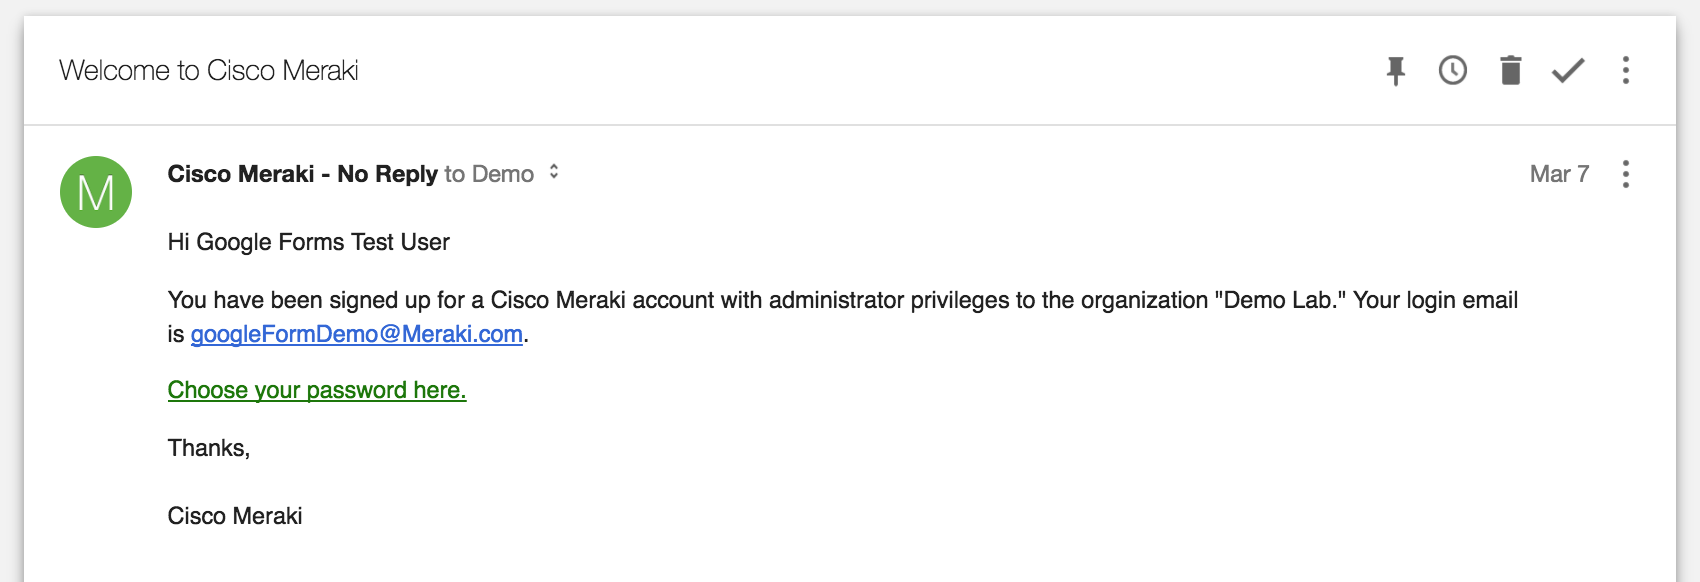
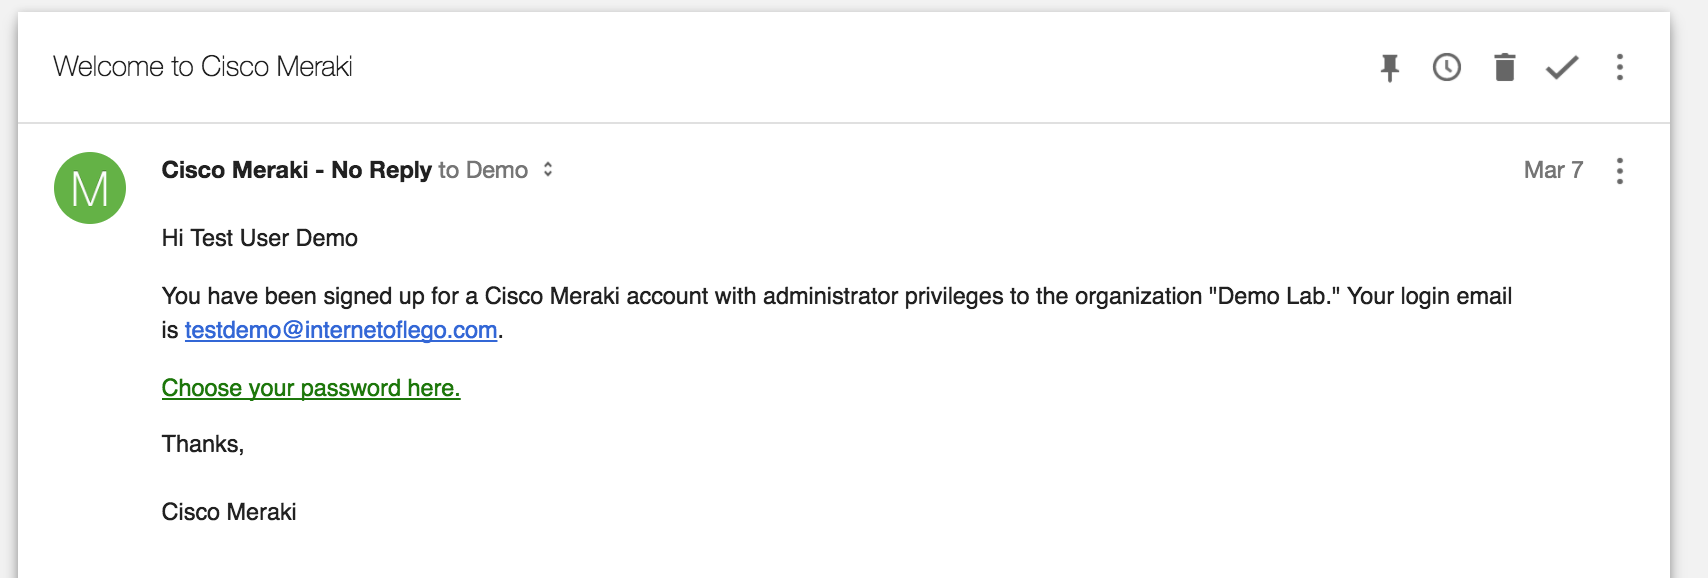
changed images

diff --git a/README.md b/README.md
@@ -85,7 +85,7 @@ If everything worked, you should get an email from Meraki asking to complete the
 ## Verify Meraki account is created
 - Meraki Dashboard --> Organization --> Administrators
 
-<img src="images/Meraki Admin User screenshot.png" alt="Logs" width=600/>
+<img src="images/Meraki Admin User screenshot - demo.png" alt="Admin Users" width=600/>
 
 ## SUCCESS!
 
